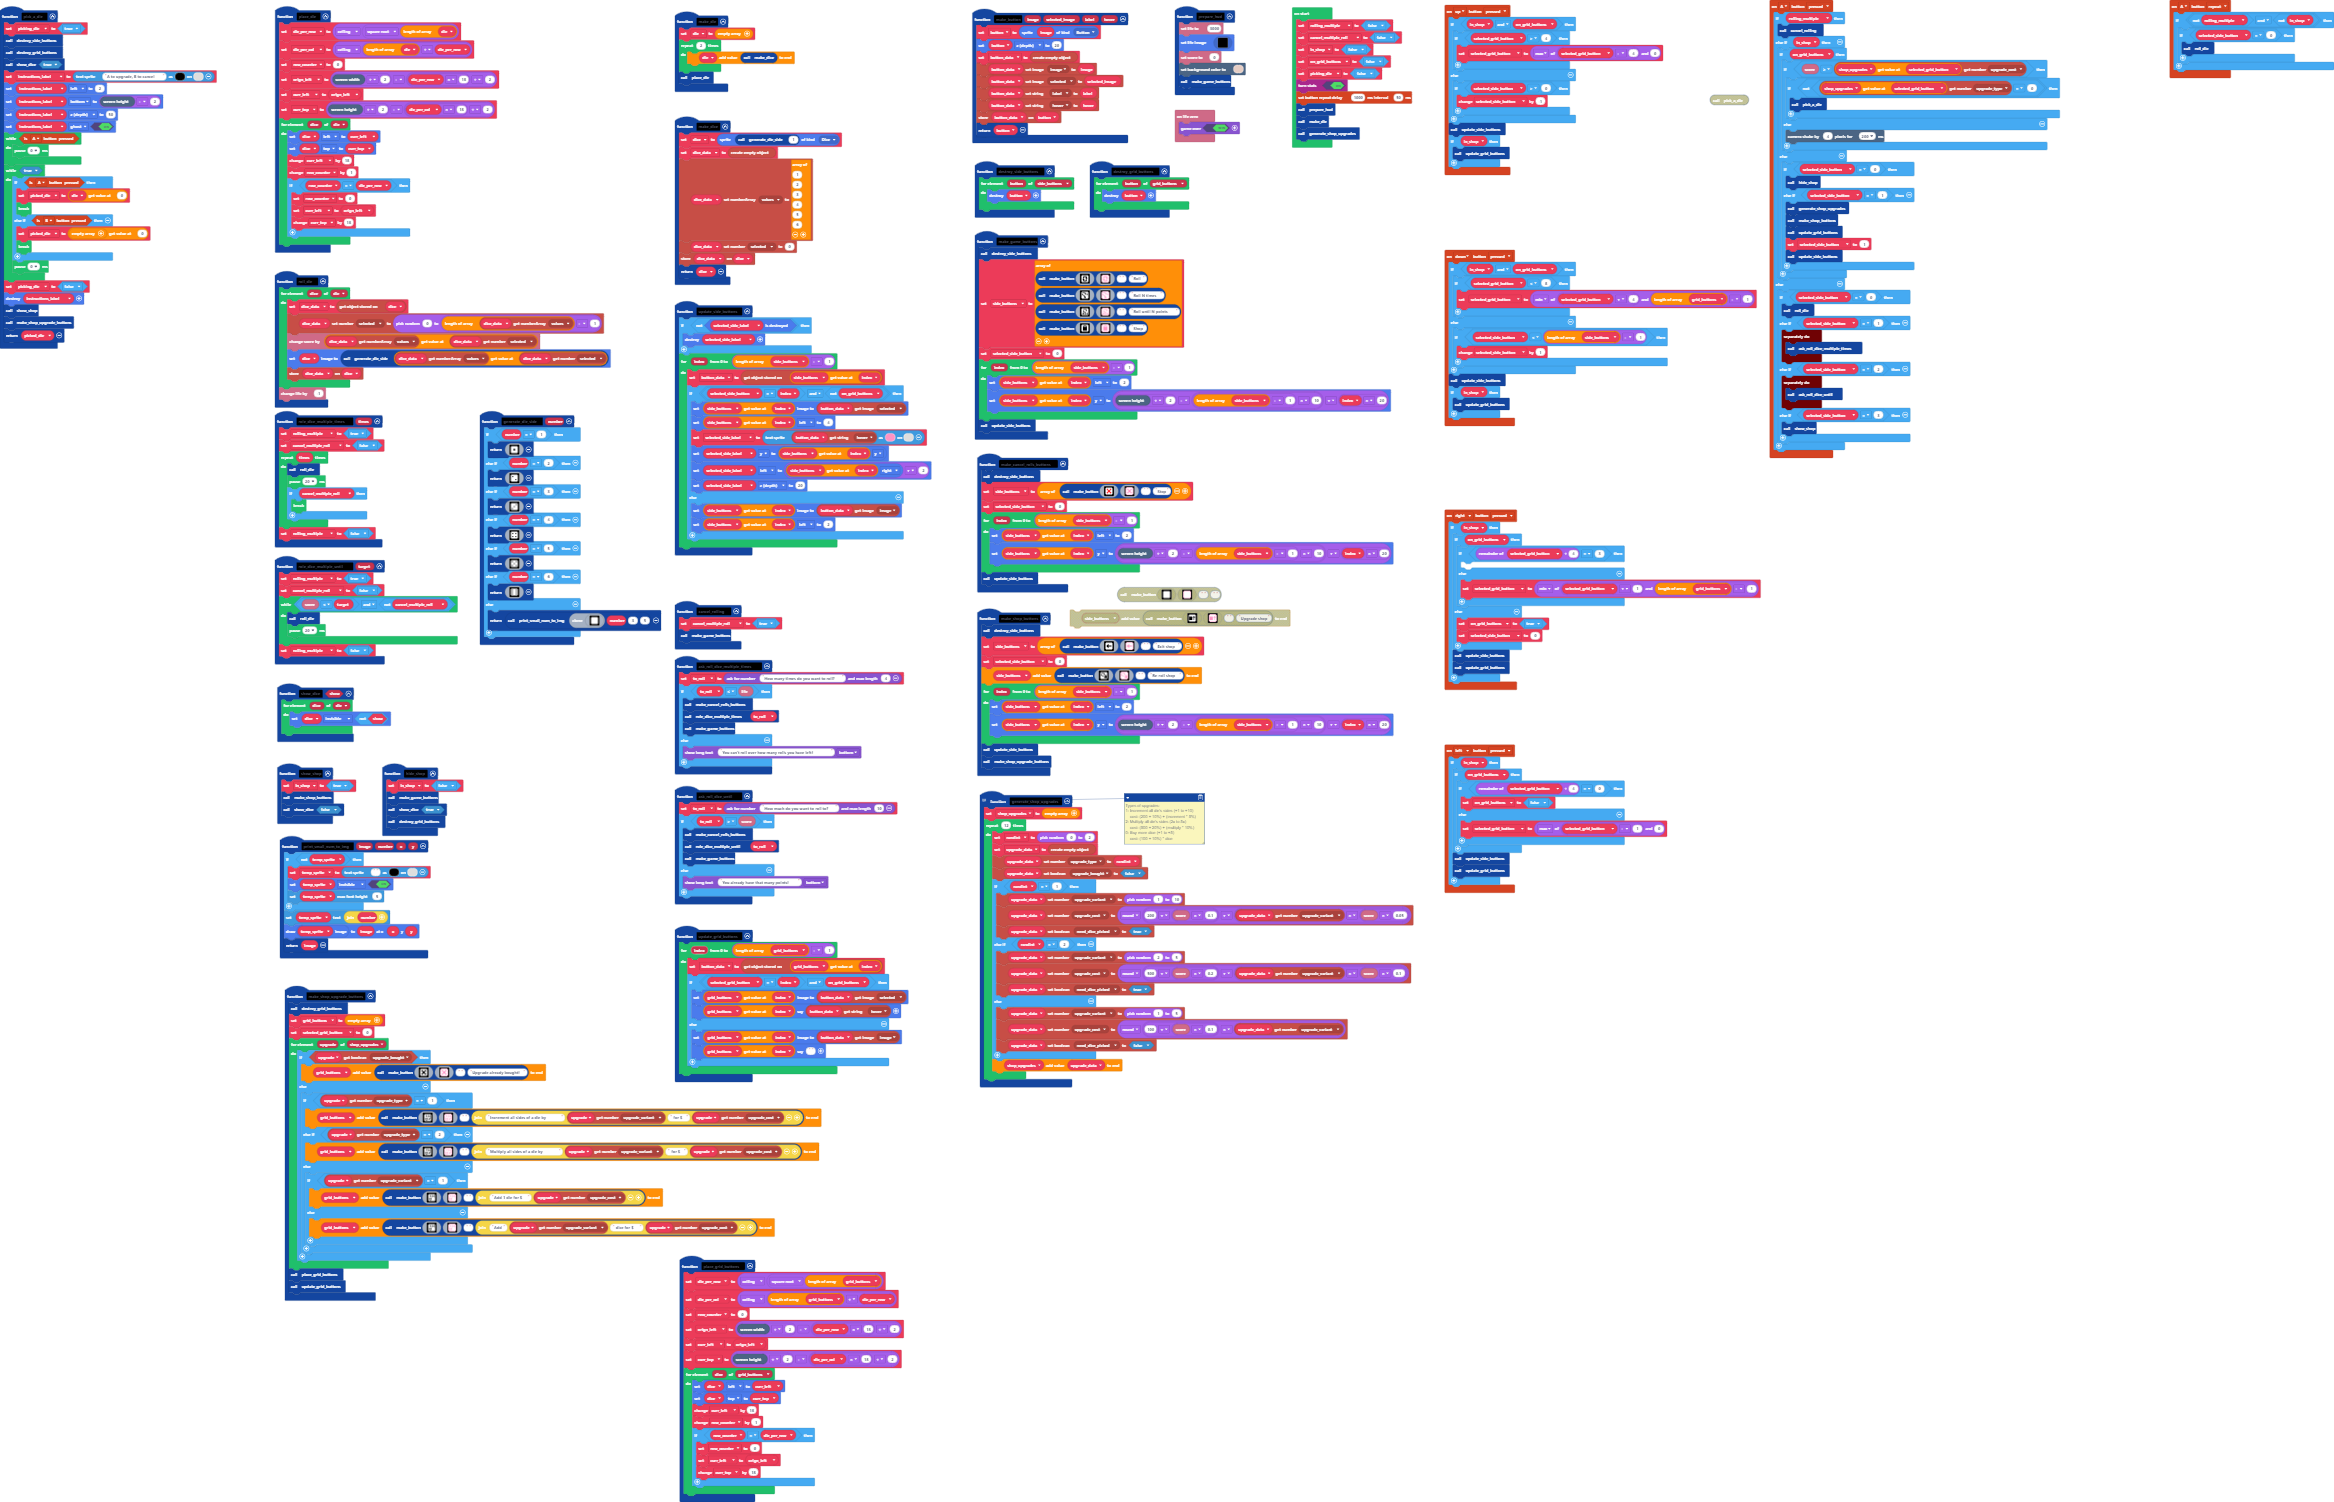
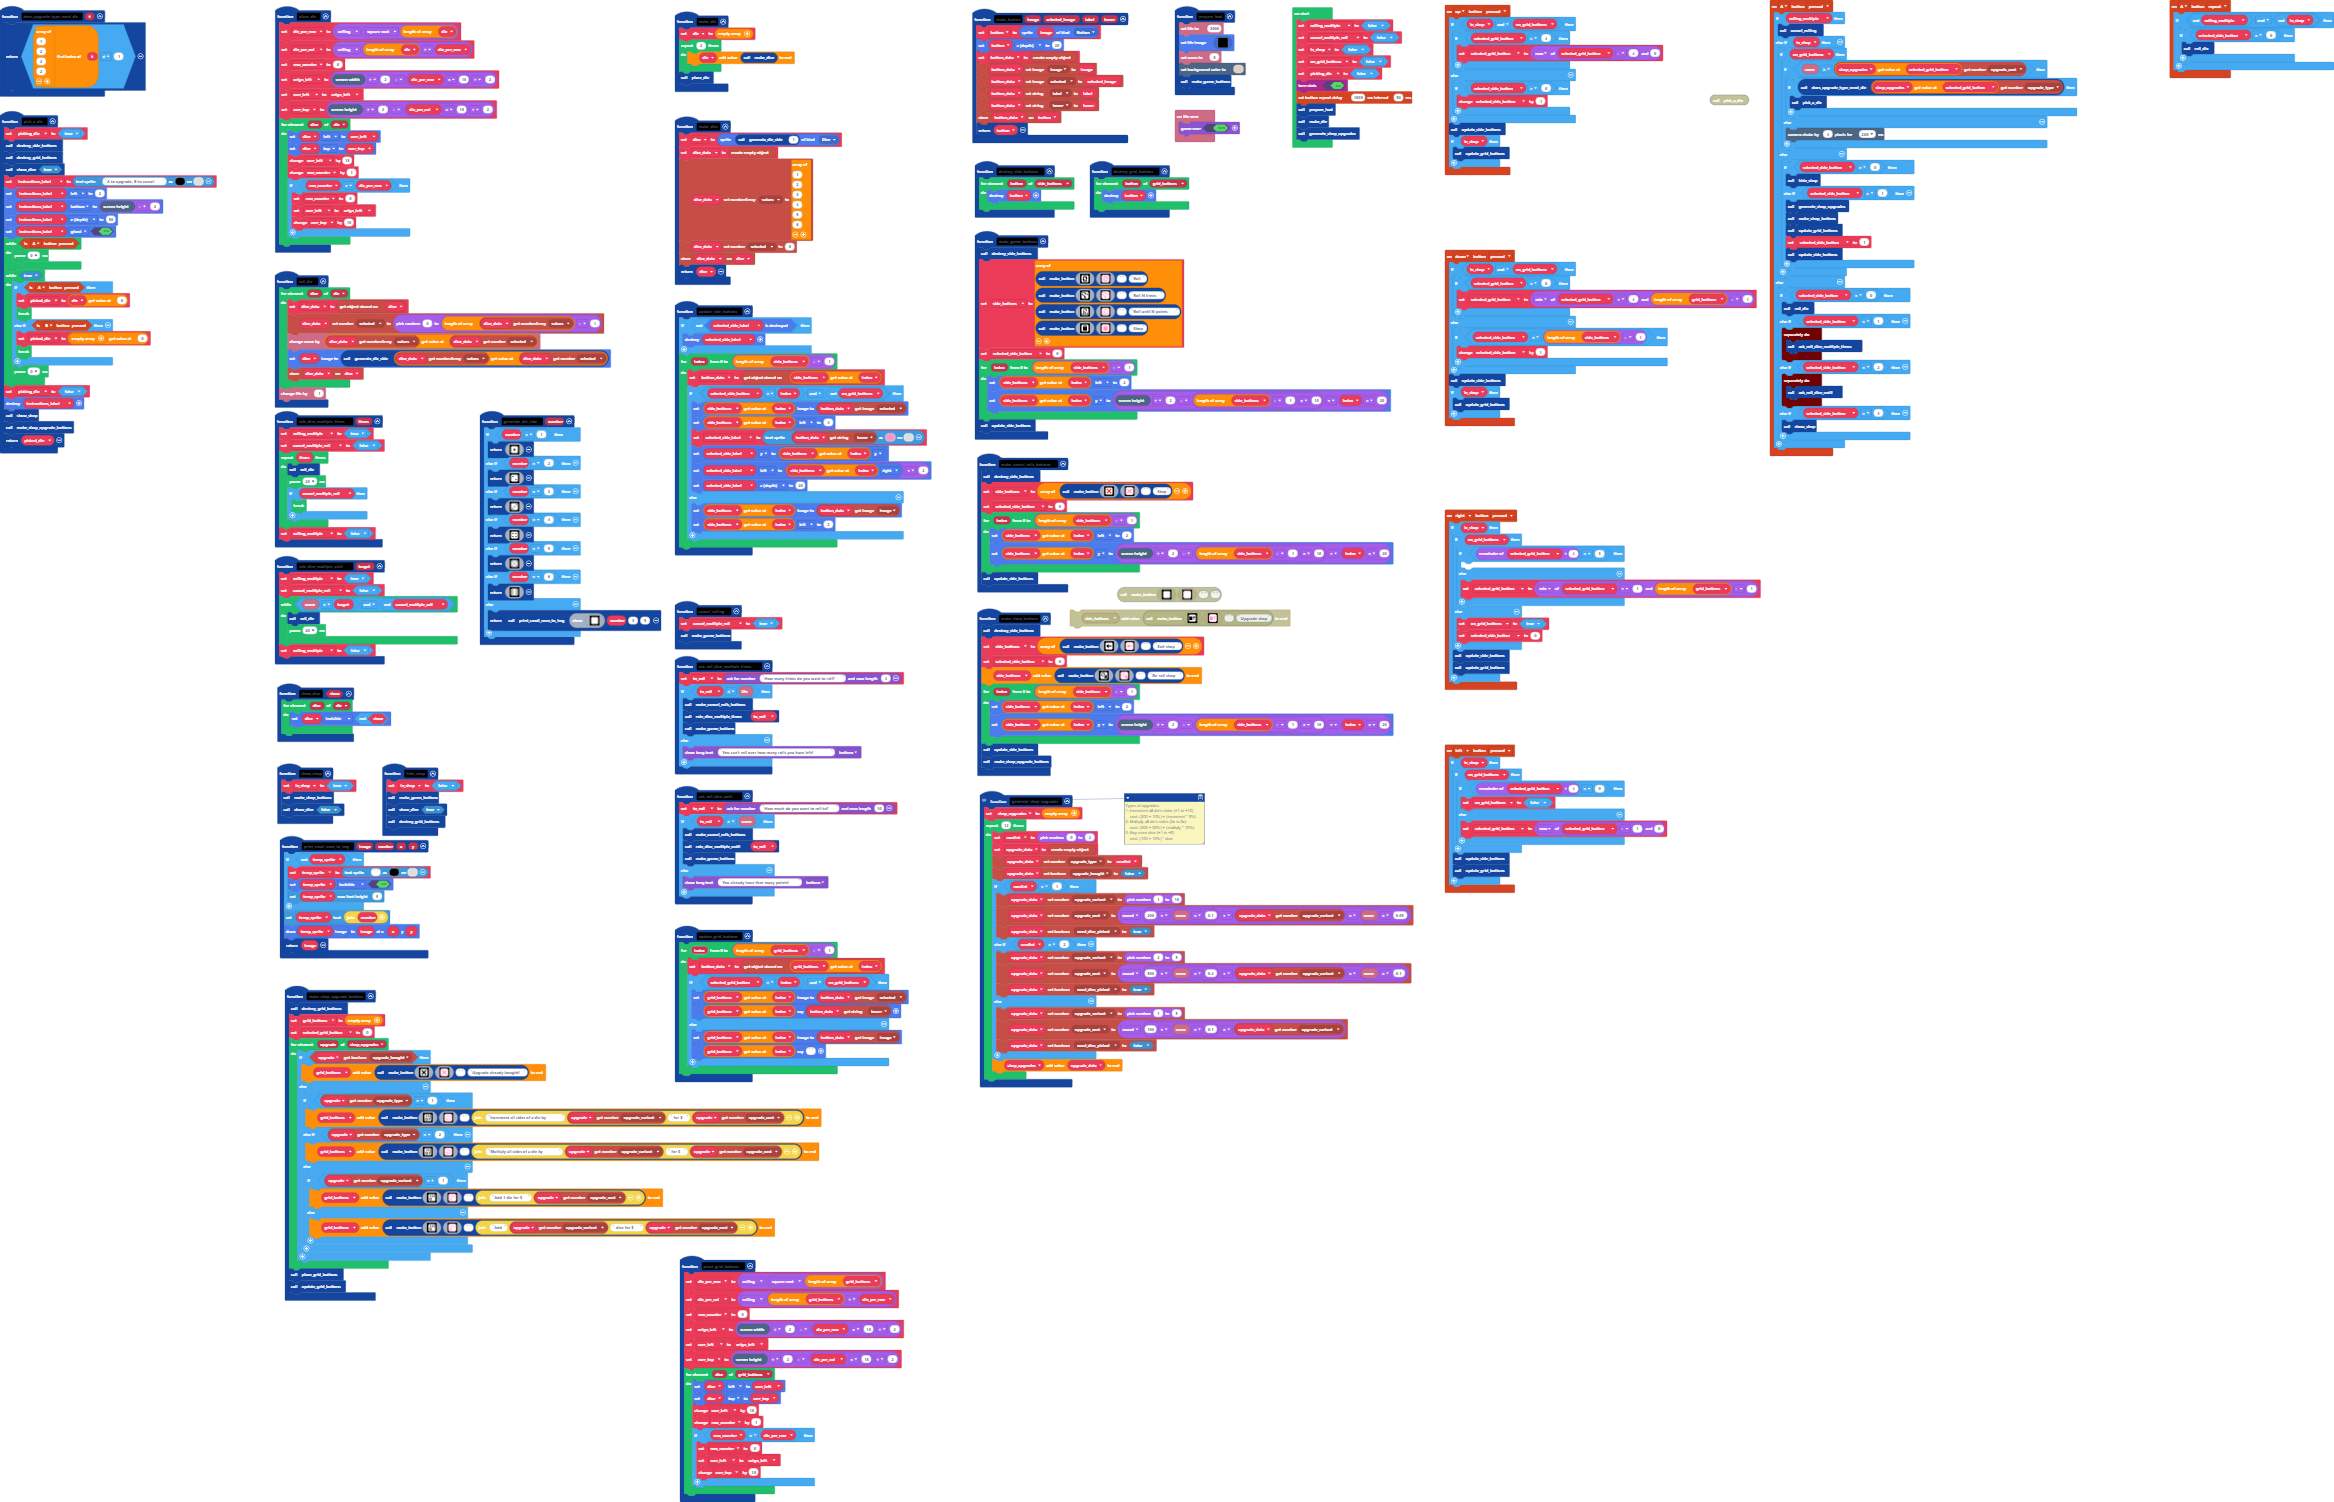
Use function to determine whether upgrade needs die selected

Changed region(s): [[0.7404, 0.0306, 0.8946, 0.3063], [0.0, 0.0, 0.0925, 0.3063]]

diff --git a/main.ts b/main.ts
@@ -87,7 +87,7 @@ controller.A.onEvent(ControllerButtonEvent.Pressed, function () {
     } else if (in_shop) {
         if (on_grid_buttons) {
             if (info.score() >= blockObject.getNumberProperty(shop_upgrades[selected_grid_button], NumProp.upgrade_cost)) {
-                if (!(blockObject.getNumberProperty(shop_upgrades[selected_grid_button], NumProp.upgrade_type) == 0)) {
+                if (does_upgrade_type_need_die(blockObject.getNumberProperty(shop_upgrades[selected_grid_button], NumProp.upgrade_type))) {
                     pick_a_die()
                 }
             } else {
@@ -152,6 +152,14 @@ function make_dice () {
     blockObject.setNumberProperty(dice_data, NumProp.selected, 0)
     blockObject.storeOnSprite(dice_data, dice)
     return dice
+}
+function does_upgrade_type_need_die (t: number) {
+    return [
+    1,
+    2,
+    2,
+    2
+    ].indexOf(t) != -1
 }
 function make_cancel_rolls_buttons () {
     destroy_side_buttons()
